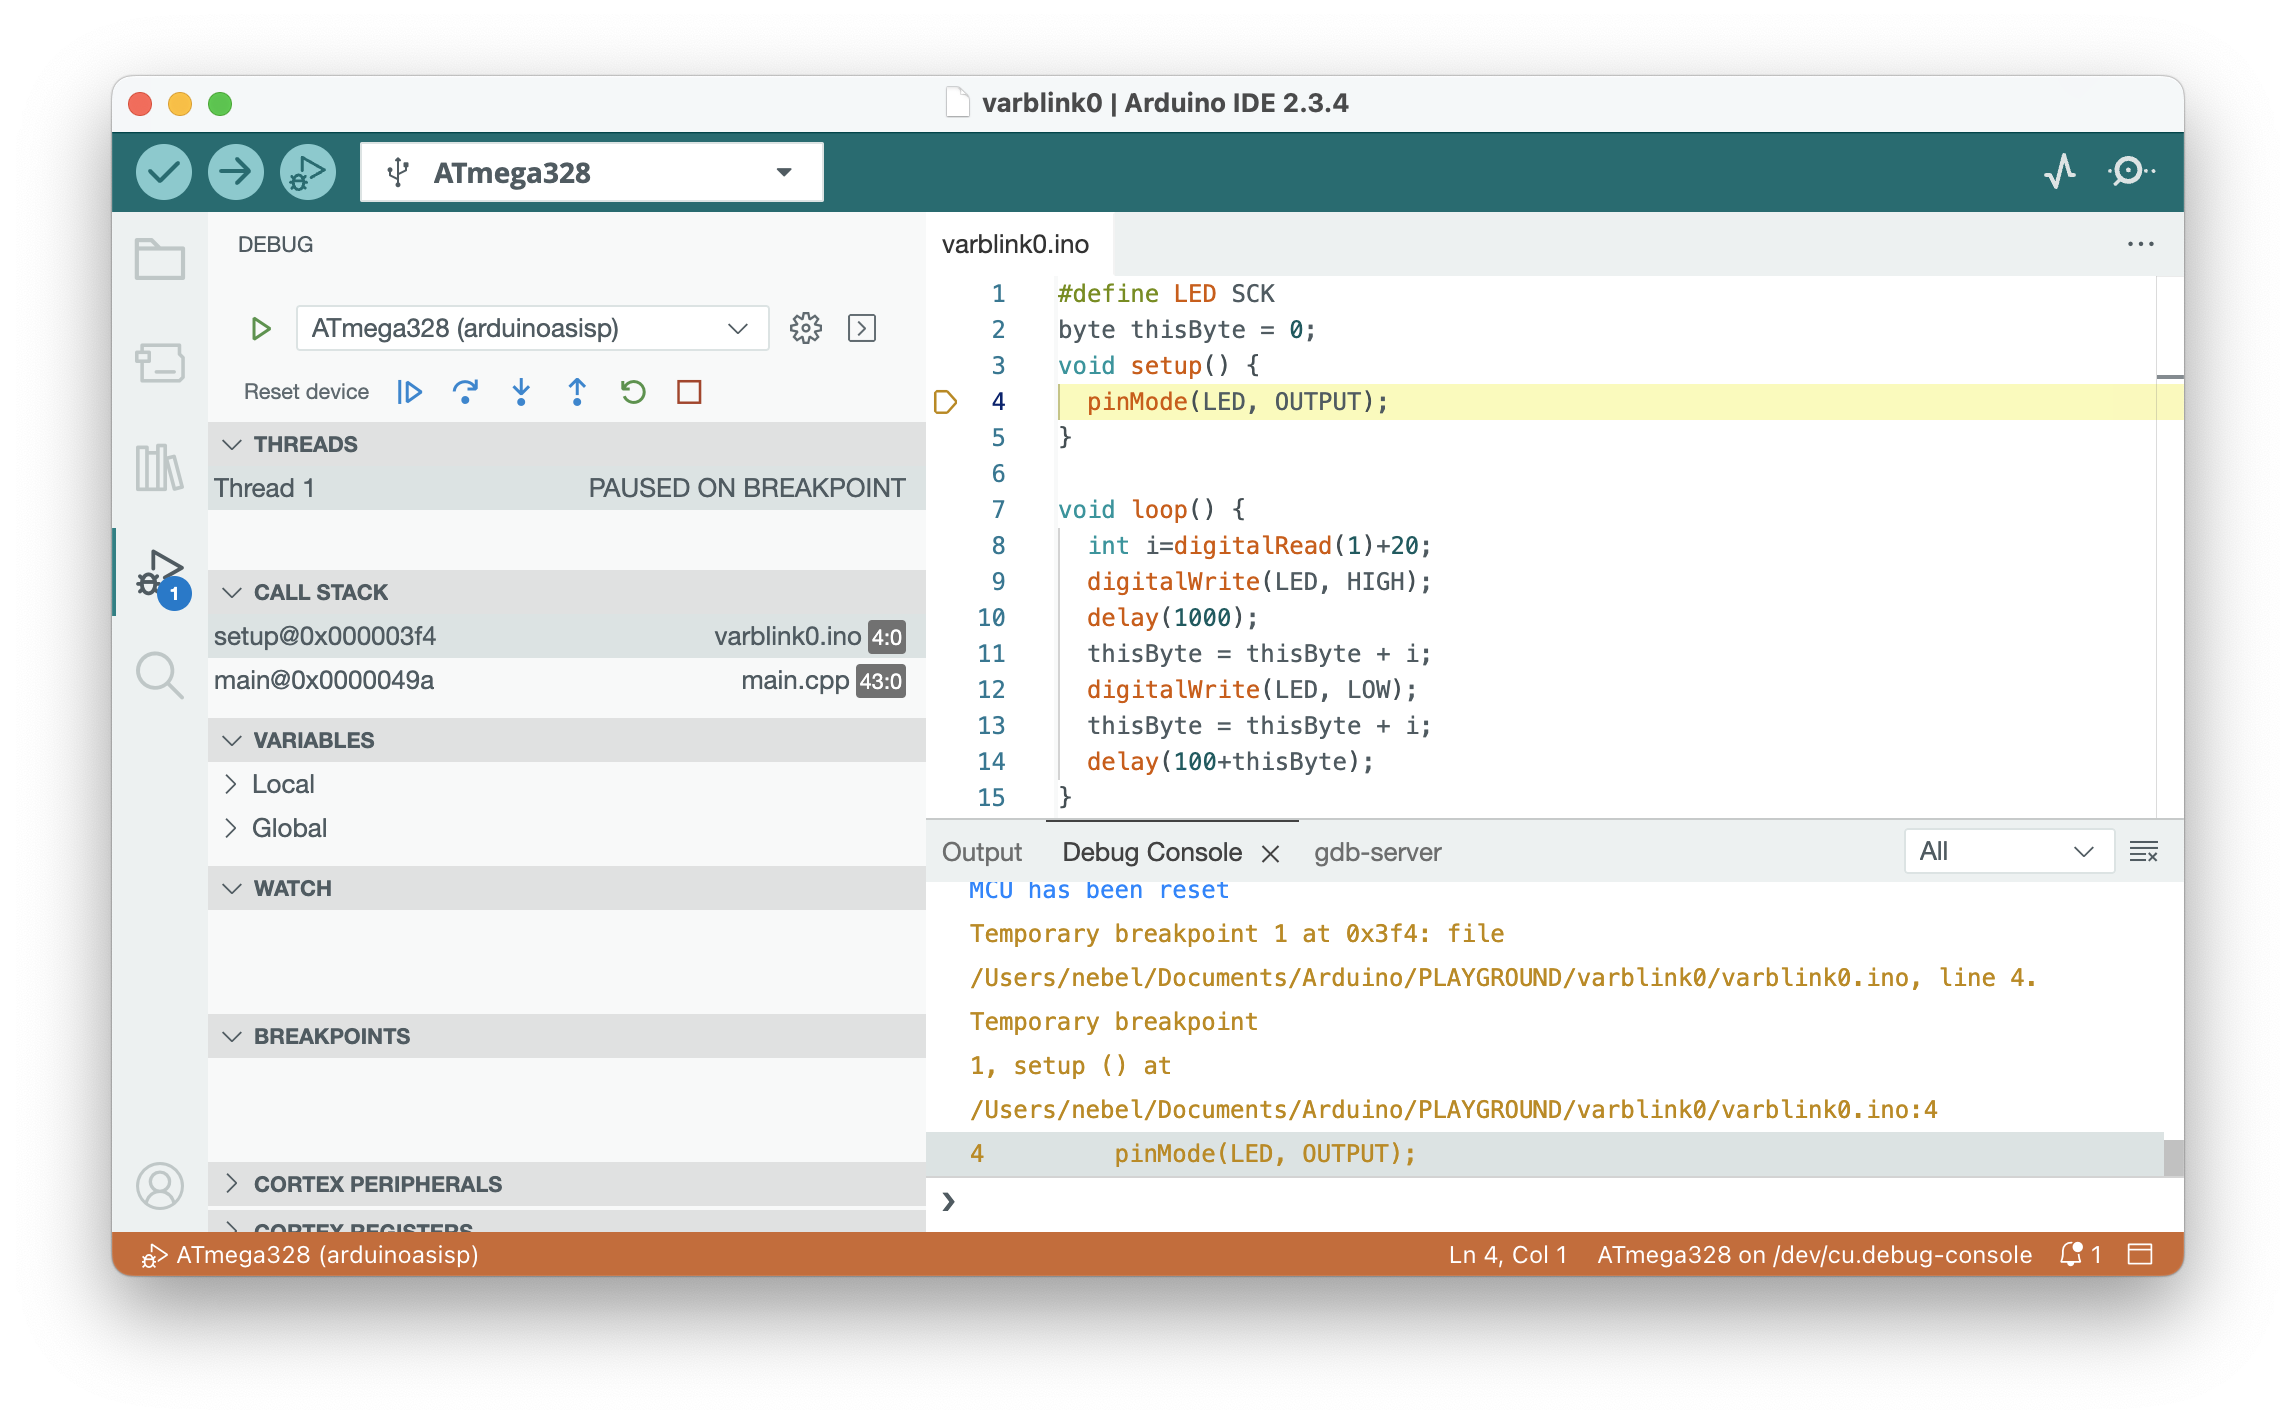
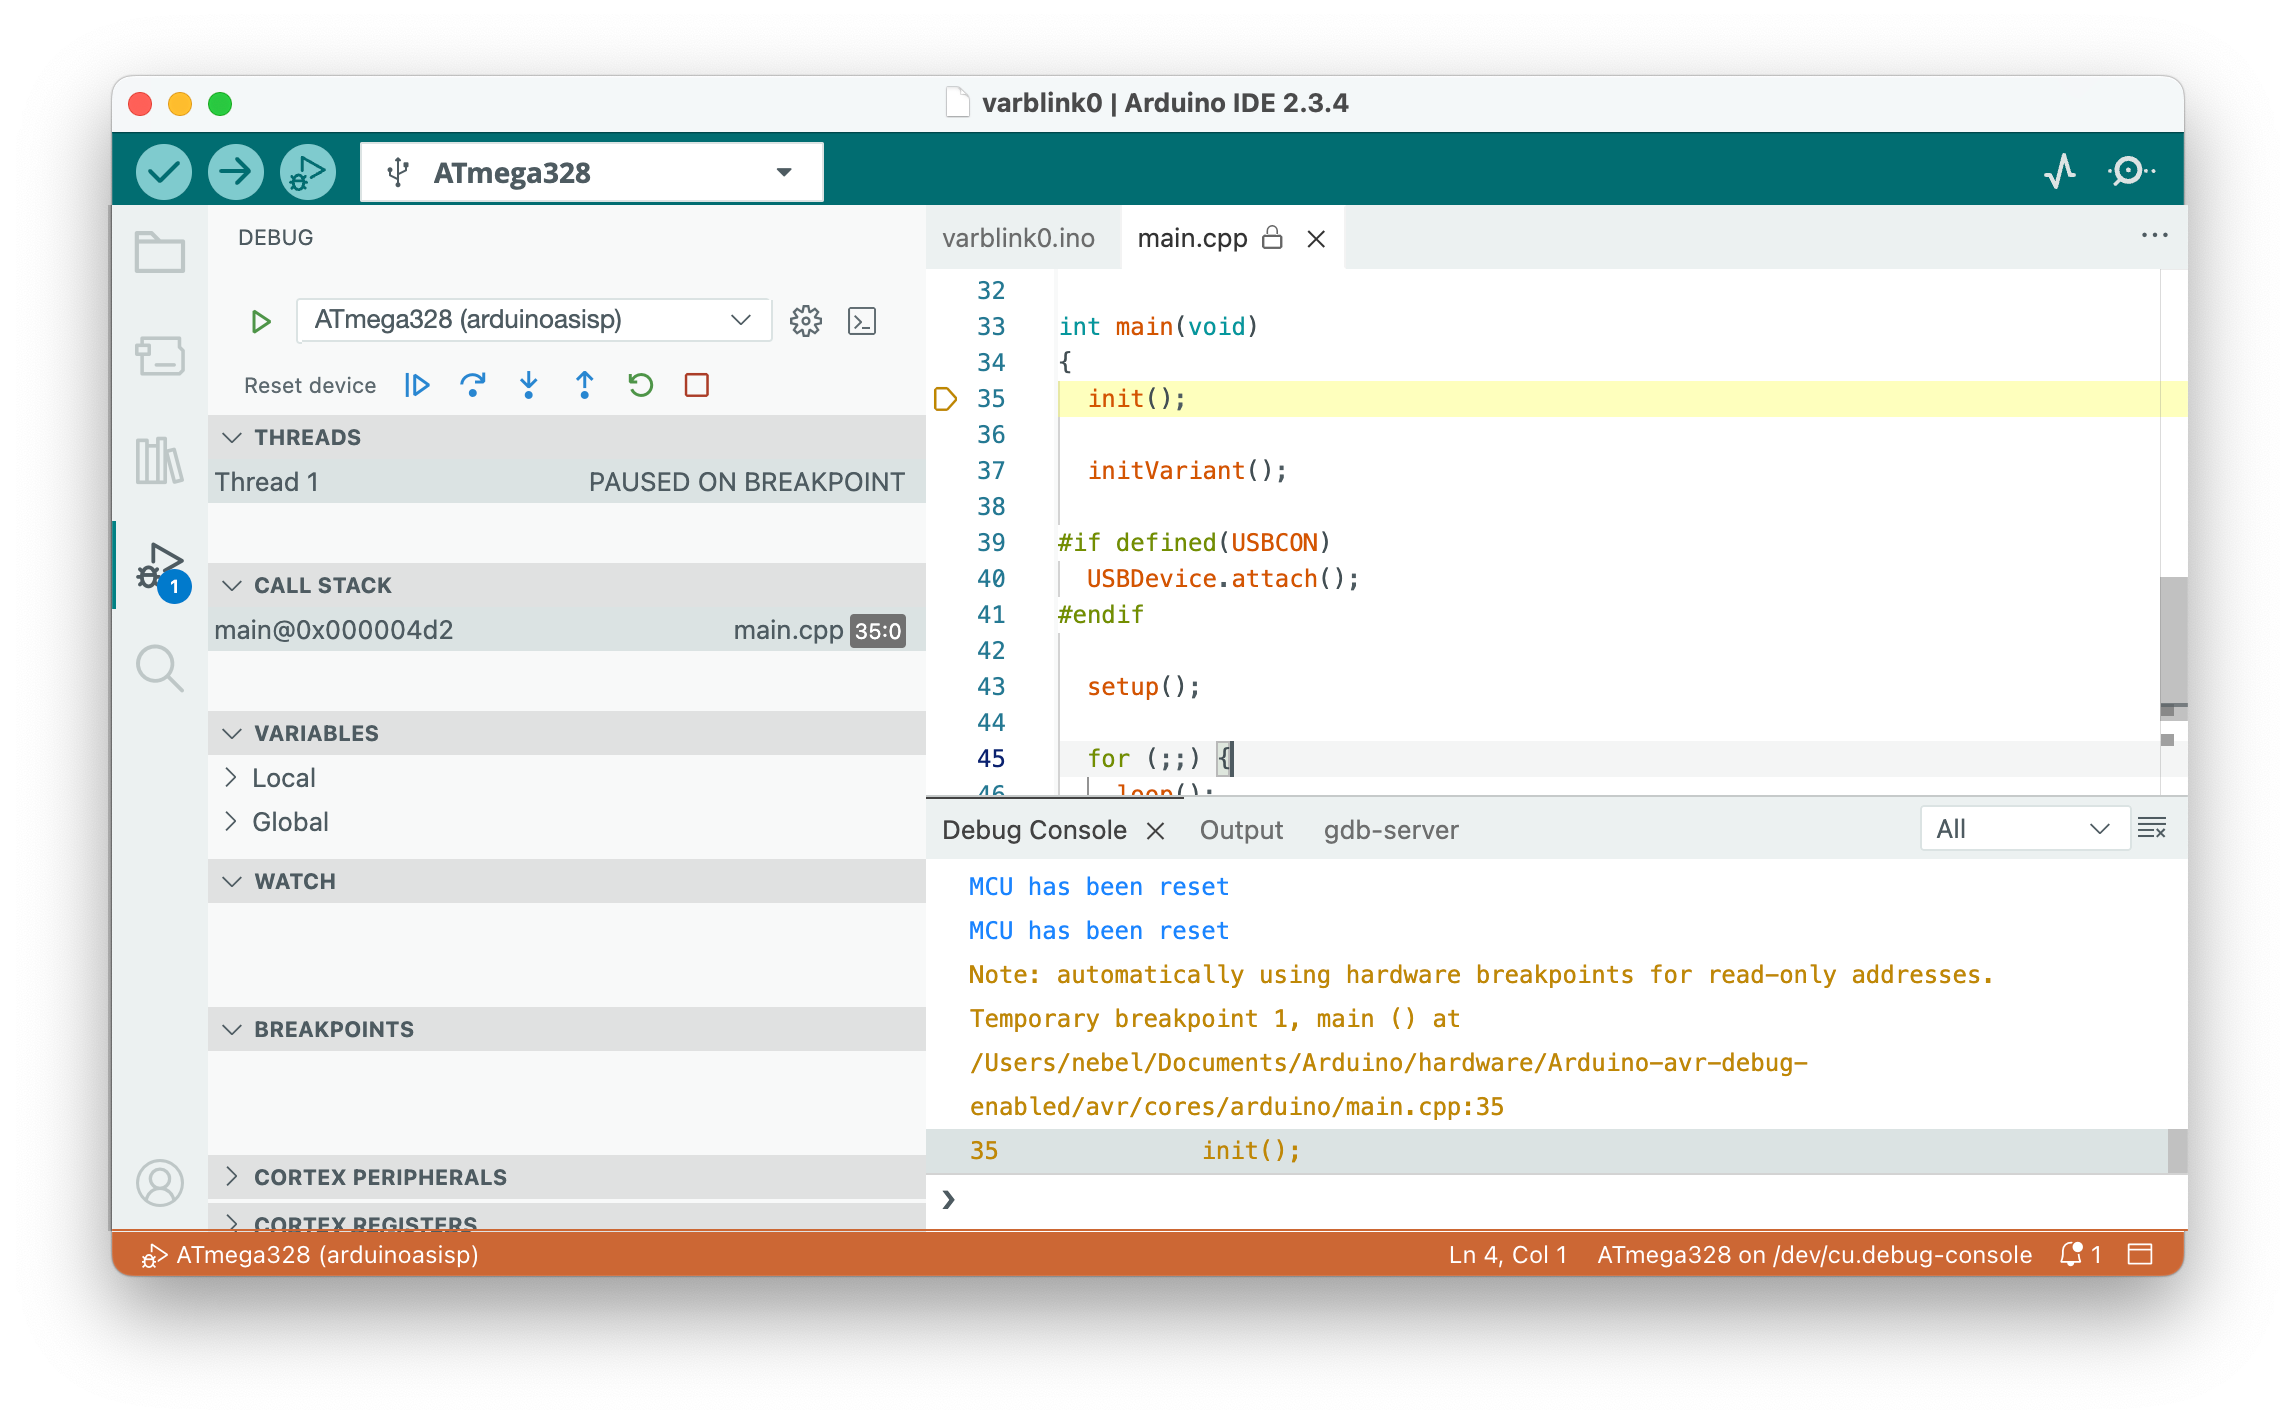
docs & fix in main

diff --git a/pyavrocd/main.py b/pyavrocd/main.py
@@ -50,7 +50,6 @@ def _setup_tool_connection(args, logger):
         else:
             logger.info("Connecting to anything possible")
     toolconnection = ToolUsbHidConnection(serialnumber=usb_serial, tool_name=product)
-
     return toolconnection
 
 
@@ -446,13 +445,17 @@ def startup(command_line, logger):
         logger.critical("No compatible tool discovered")
     transport = hid_transport()
     if not no_backend_error and not no_hw_dbg_error:
-        if transport.connect(serial_number=toolconnection.serialnumber,
-                                    product=toolconnection.tool_name):
-            logger.info("Connected to %s", transport.hid_device.get_product_string())
-        else:
-            logger.critical("Far too many connected tools. Use -t or -s to distinguish!")
+        try:
+            if transport.connect(serial_number=toolconnection.serialnumber,
+                                     product=toolconnection.tool_name):
+                logger.info("Connected to %s", transport.hid_device.get_product_string())
+            else:
+                logger.critical("Far too many connected tools. Use -t or -s to distinguish!")
+                return 1
+        except OSError:
+            logger.critical("Debug probe busy, cannot connect")
             return 1
-    elif platform.system() == 'Linux' and no_hw_dbg_error and len(transport.devices) == 0:
+    elif platform.system() == 'Linux' and no_hw_dbg_error and len(transport.devices)==0:
         if getattr(sys, 'frozen', False) and hasattr(sys, '_MEIPASS'):
             path_to_prog, _ = os.path.split((sys._MEIPASS)[:-1]) #pylint: disable=protected-access
             path_to_prog +=  '/pyavrocd'

diff --git a/docs/command-line-options.md b/docs/command-line-options.md
@@ -14,7 +14,7 @@ PyAvrOCD will then look for a debug probe, establish a connection to it, and wai
 | `--debug-clock`<br>`-D`                                      | JTAG clock frequency for debugging (kHz). This value should be less than a quarter of the MCU clock frequency. The default is (a conservative) 200 kHz. |
 | `--help`<br> `-h`                                            | Gives help text and exits.                                   |
 | `--interface`<br>`-i`                                        | Debugging interface to use. Should be one of `debugwire`, `jtag`, `pdi`, or `updi`. Only necessary if an MCU supports more than one interface or if one wants to see only the supported chips with a particular interface. |
-| `--manage`<br/>`-m`                                          | Can be given multiple times and specifies which fuses should be managed by PyAvrOCD. Possible arguments are `all`, `none`, `bootrst`, `nobootrst`,  `dwen`, `nodwen`, `ocden`, `noocden`, `eesave`, `noeesave`, `lockbits`, and `nolockbits`. Later values in the command line override earlier ones. Any fuses not managed by PyAvrOCD need to be changed 'manually' before and/or after the GDB server is activated. The default for this option is `none`, i.e., all fuses have to be dealt with by the user. Note that dw-link ignores this option. |
+| `--manage`<br/>`-m`                                          | Can be given multiple times and specifies which fuses should be managed by PyAvrOCD. Possible arguments are `all`, `none`, `bootrst`, `nobootrst`,  `dwen`, `nodwen`, `ocden`, `noocden`, `eesave`, `noeesave`, `lockbits`, and `nolockbits`. Later values in the command line override earlier ones. Any fuses not managed by PyAvrOCD need to be changed 'manually' before and/or after the GDB server is activated. The default for this option is `none`, i.e., all fuses have to be dealt with by the user. Note that dw-link ignores this option. It will manage all fuses. |
 | `--port` <br>`-p`                                            | IP port on the local host to which GDB can connect. The default is 2000. |
 | `--prog-clock`<br>`-P`                                       | JTAG programming clock frequency in kHz. This is limited only by the target MCU silicon, not by the actual MCU clock frequency used. The default is (a conservative) 1000 kHz. |
 | `--start` <br>`-s`                                           | Program to start or the string `noop`, when no program should be started |

diff --git a/docs/debugging.md b/docs/debugging.md
@@ -103,7 +103,7 @@ Let us assume you found the bug and made a correction in the source code. Note t
 2. Click again on the `Verify` button to start a new compilation.
 3. Restart the debugger by clicking on the `Debugging` button in the top line in order to try out your correction.
 
-If everything now works out, you may consider calling it a day and stopping work on the program. Before leaving the debugger, consider typing the command `monitor debugwire disable` into the last line of the `Debug Console`. If you were debugging on a debugWIRE target, this is necessary to bring the target chip back into normal mode, where it accepts SPI programming.
+If everything now works out, you may consider calling it a day and stop working on the program. If you were debugging on a debugWIRE target, onsider typing the command `monitor debugwire disable` into the last line of the `Debug Console` before terminating the debugger.  This is necessary to bring the target chip back into normal mode, where it accepts SPI programming.
 
 ## Debugging using PlatformIO/VSC
 

diff --git a/CHANGELOG.md b/CHANGELOG.md
@@ -4,6 +4,7 @@
 
 - **Fixed:**
      - On an ATmega328P XPlained Mini, I sometimes got errors when activating the physical interface: "AVR8_FAILURE_CLOCK_ERROR: Failure when increasing communication clock rate". If this error occurs, we now simply retry. This appears to work smoothly.
+     - Captured "Cannot open HID" exception when trying to connect to a busy debug probe in main.py
 - **Added:**
      - Added 'borrow_hwbp0' in hardwarebp.py: Borrow the temporary HWBP. If HWBP0 is not used, used only by range-stepping, or one can move the HWBP to another slot, we simply return  None (and the HWBP0 can be used implicitly using run_to). Otherwise, we return the address of the blocking BP, which then has to be changed into a SWBP in order to free HWBP0.
      - 'Sleep walking' in breakandexec.py: Instead of skipping a SLEEP instruction when single-stepping, we now place a hardware breakpoint after the SLEEP instruction, which is 'borrowed' (see above).
